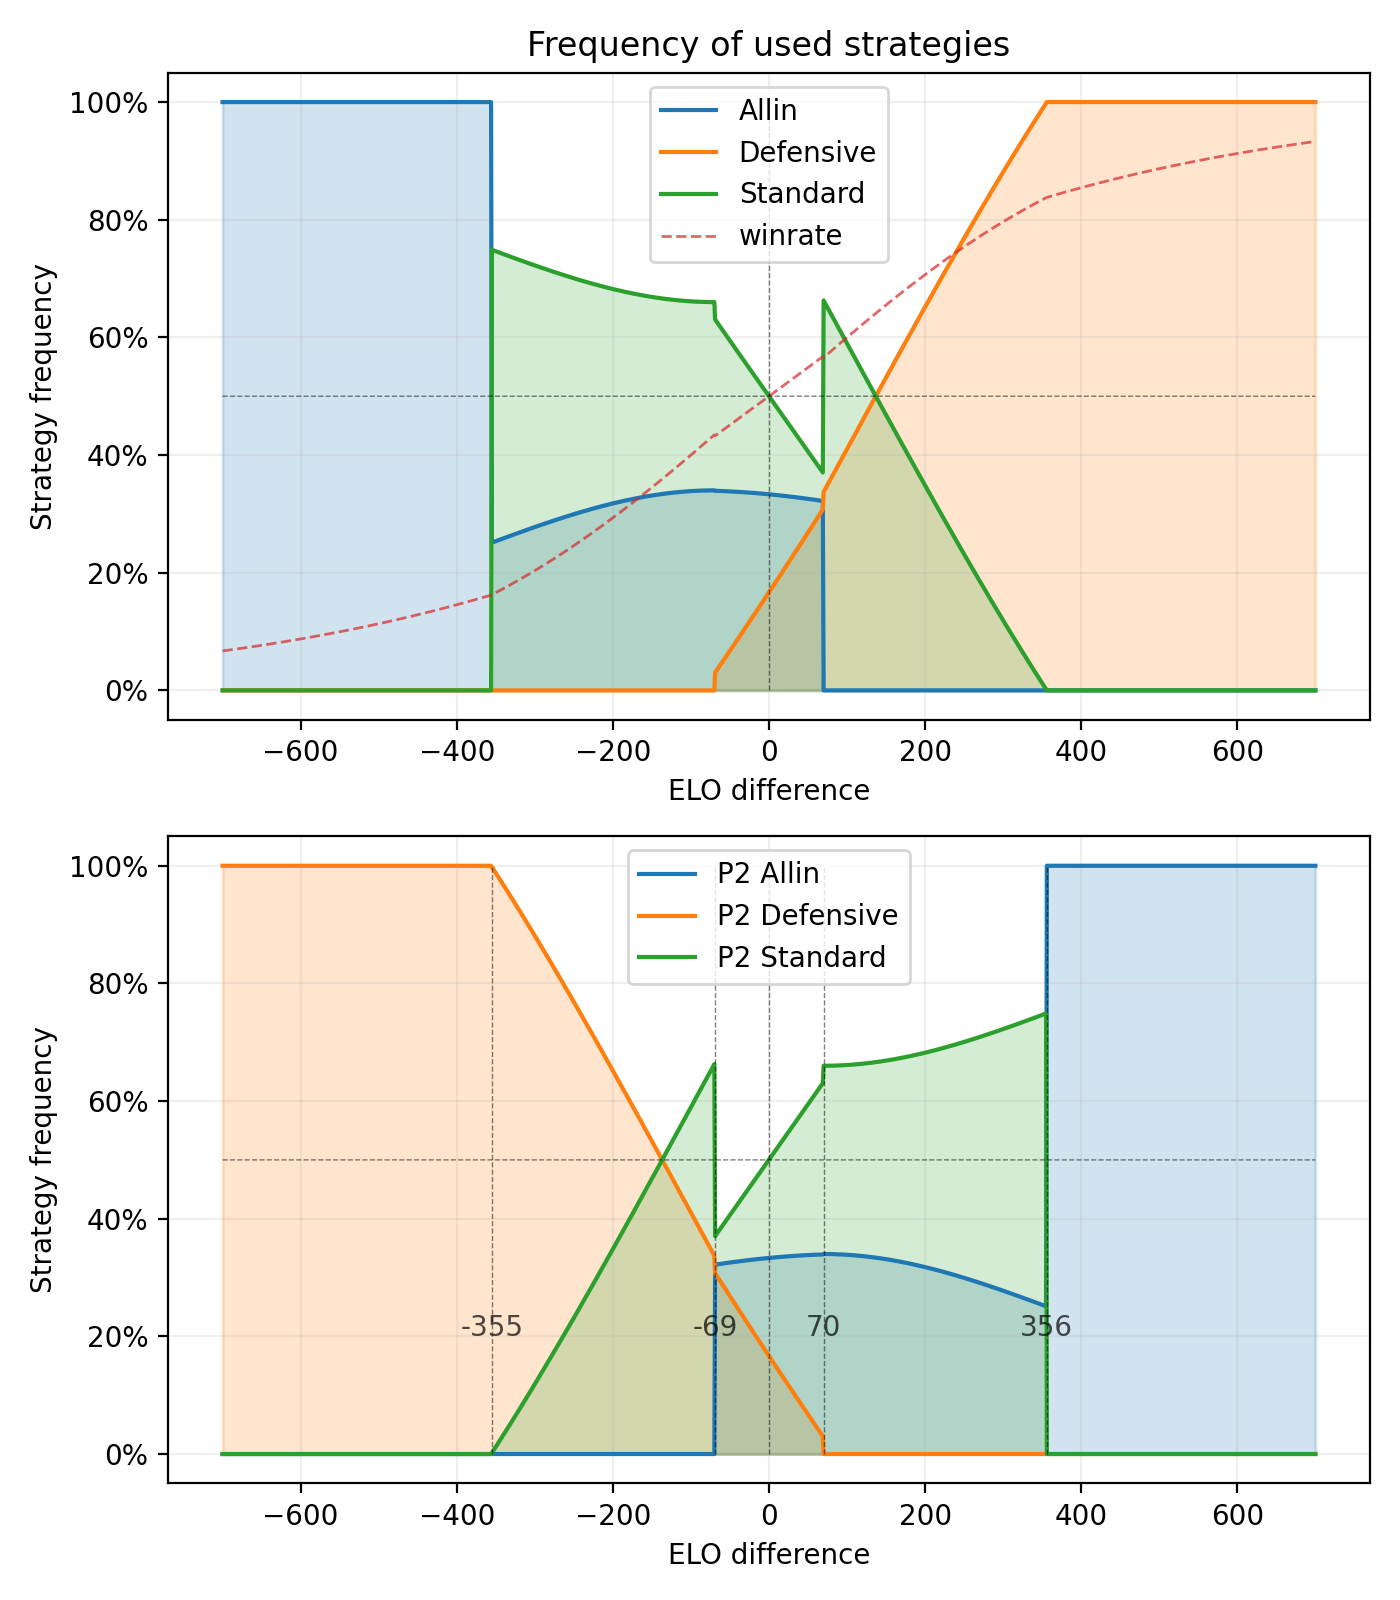
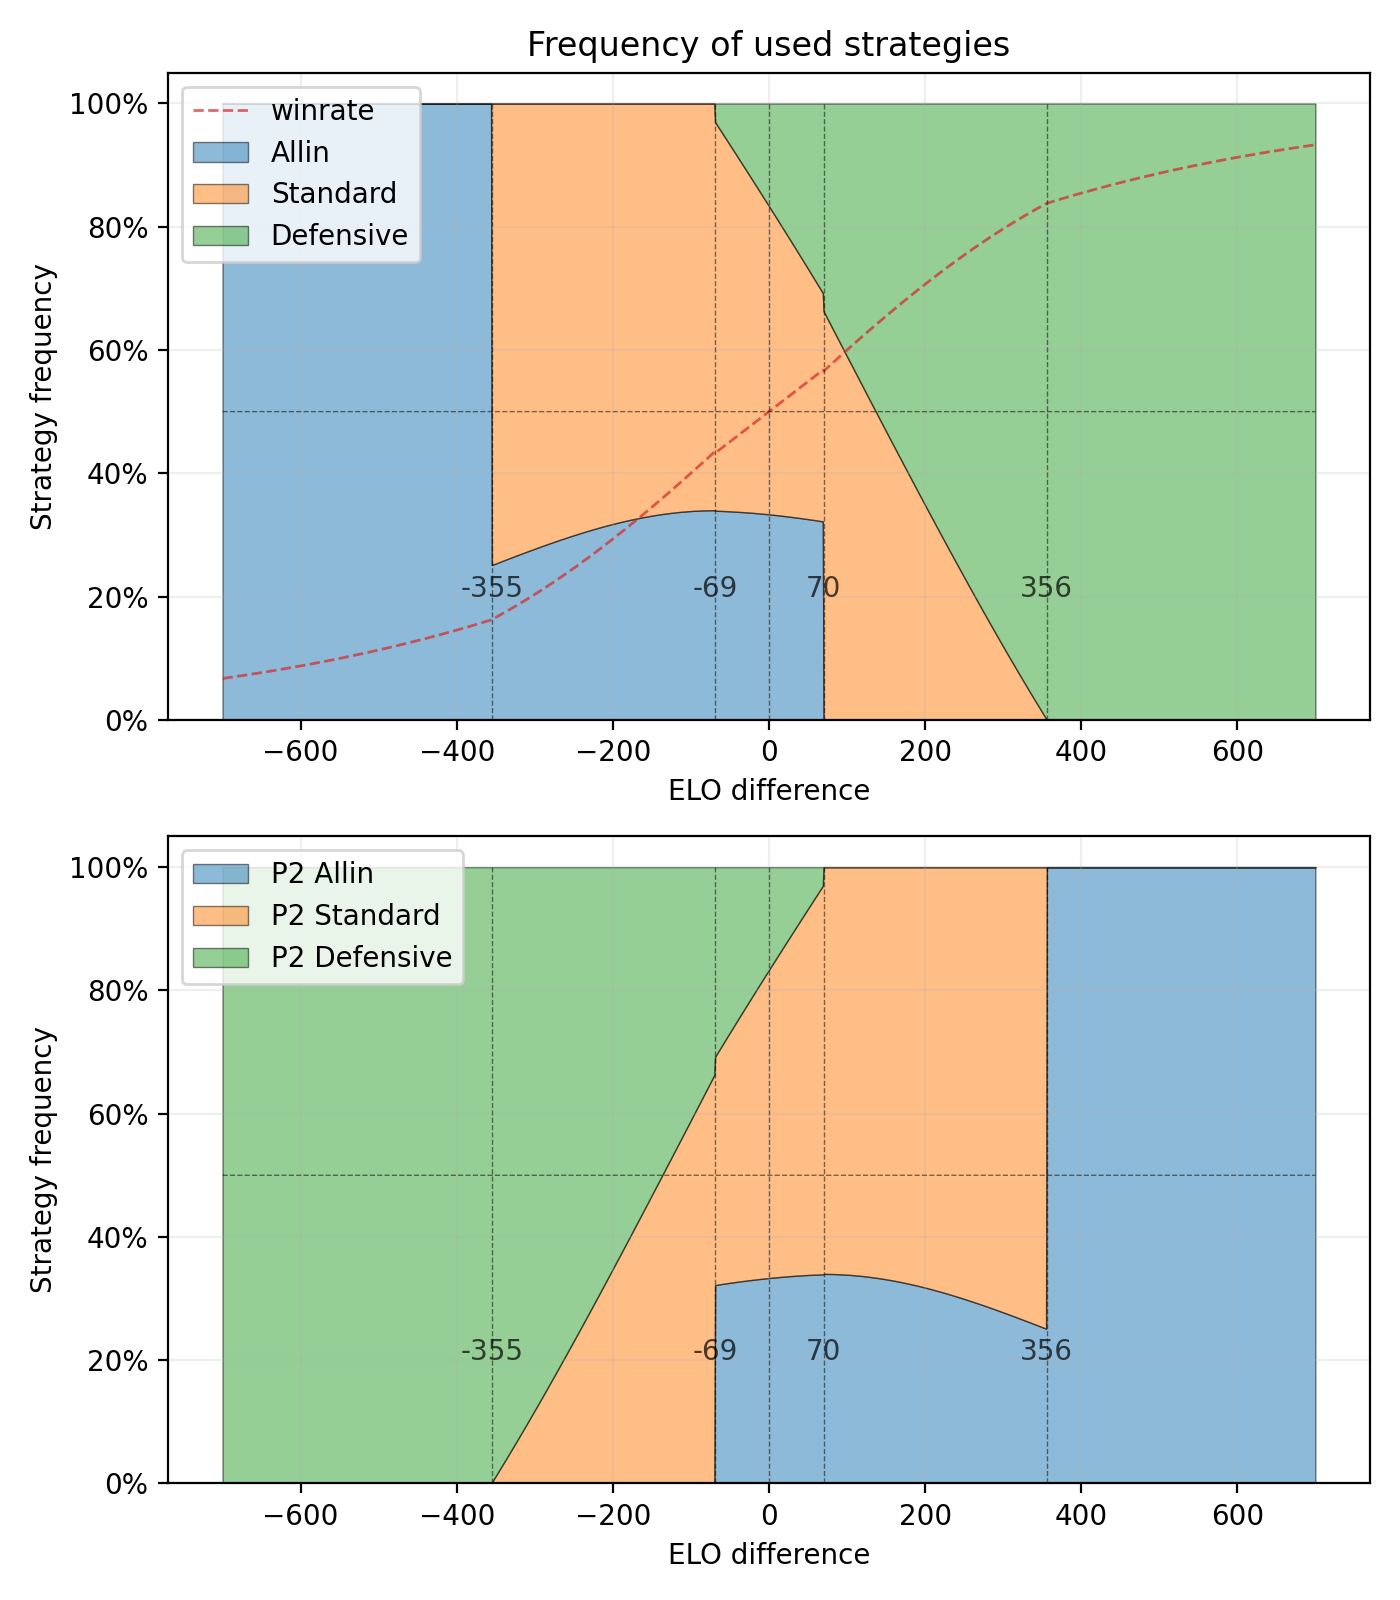
...

diff --git a/src/visualize.py b/src/visualize.py
@@ -46,24 +46,20 @@ def plot_strategy_frequency(data):
     zeros = np.zeros(len(x))
     fig, ax = plt.subplots(2, 1, figsize=(7, 8), dpi=200)
 
-    for i, strategy in enumerate(ST):
-        strategy_freq = [data[diff].p1_dist[i] for diff in data]
-        p = ax[0].plot(x, strategy_freq, label=strategy.name.capitalize())
-        ax[0].fill_between(x,
-                           zeros,
-                           strategy_freq,
-                           alpha=0.2,
-                           color=p[0].get_color())
+    frequencies = [[], []]
+    labels = [e.name.capitalize() for e in ST]
+    for i, _ in enumerate(ST):
+        frequencies[0].append([data[diff].p1_dist[i] for diff in data])
+        frequencies[1].append([data[diff].p2_dist[i] for diff in data])
 
-        strategy_freq = [data[diff].p2_dist[i] for diff in data]
-        p = ax[1].plot(x,
-                       strategy_freq,
-                       label=f"P2 {strategy.name.capitalize()}")
-        ax[1].fill_between(x,
-                           zeros,
-                           strategy_freq,
-                           alpha=0.2,
-                           color=p[0].get_color())
+    for i in range(2):
+        ax[i].stackplot(x,
+                        *frequencies[i],
+                        labels=labels,
+                        alpha=0.5,
+                        edgecolor="k",
+                        linewidth=0.5)
+        labels = [f"P2 {l}" for l in labels]
 
     # Plot P1 winrate
     p1winrate = [data[diff].p1_expected_payoff for diff in data]
@@ -78,9 +74,10 @@ def plot_strategy_frequency(data):
             viable_strategies = n
             breakpoints.append(diff)
 
-    for brk in breakpoints:
-        ax[1].plot([brk, brk], [0, 1], 'k--', alpha=0.5, linewidth=0.5)
-        ax[1].text(brk, 0.2, f"{brk}", ha="center", alpha=0.7)
+    for i in range(2):
+        for brk in breakpoints:
+            ax[i].plot([brk, brk], [0, 1], 'k--', alpha=0.5, linewidth=0.5)
+            ax[i].text(brk, 0.2, f"{brk}", ha="center", alpha=0.7)
 
     # Stylize
     ax[0].set_title("Frequency of used strategies")
@@ -91,7 +88,7 @@ def plot_strategy_frequency(data):
         ax[i].set_xlabel("ELO difference")
         ax[i].set_ylabel("Strategy frequency")
         ax[i].grid(alpha=0.2)
-        ax[i].legend()
+        ax[i].legend(loc="upper left")
 
     fig.tight_layout()
     fig.savefig("img/strategy_frequency.png")

diff --git a/src/strategies.py b/src/strategies.py
@@ -19,8 +19,8 @@ from payoffmatrix import MixedStrategyResult, PayoffMatrix
 class ST(Enum):
     """ Strategies """
     allin = auto()
-    defensive = auto()
     standard = auto()
+    defensive = auto()
 
 
 def calc_winrate(p1elo: float, p2elo: float) -> float:
